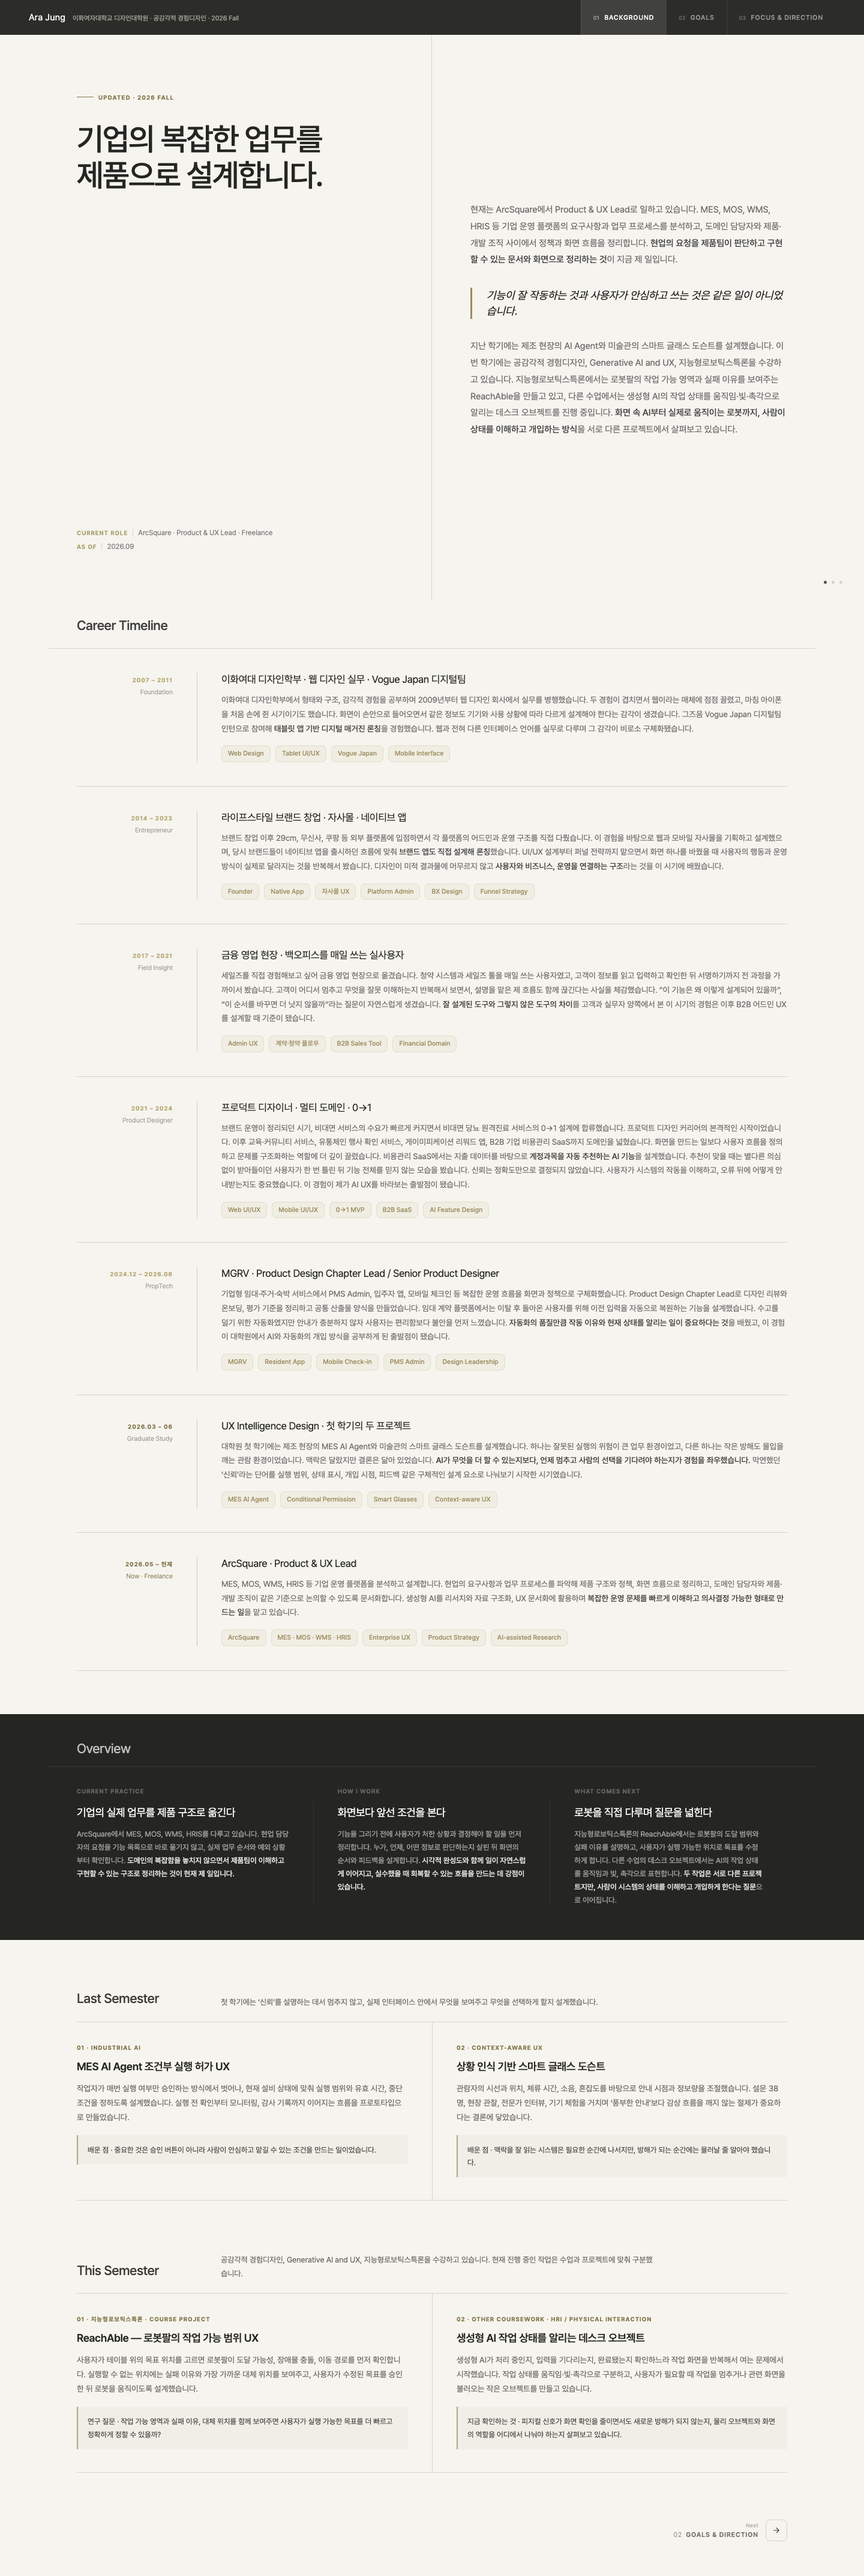
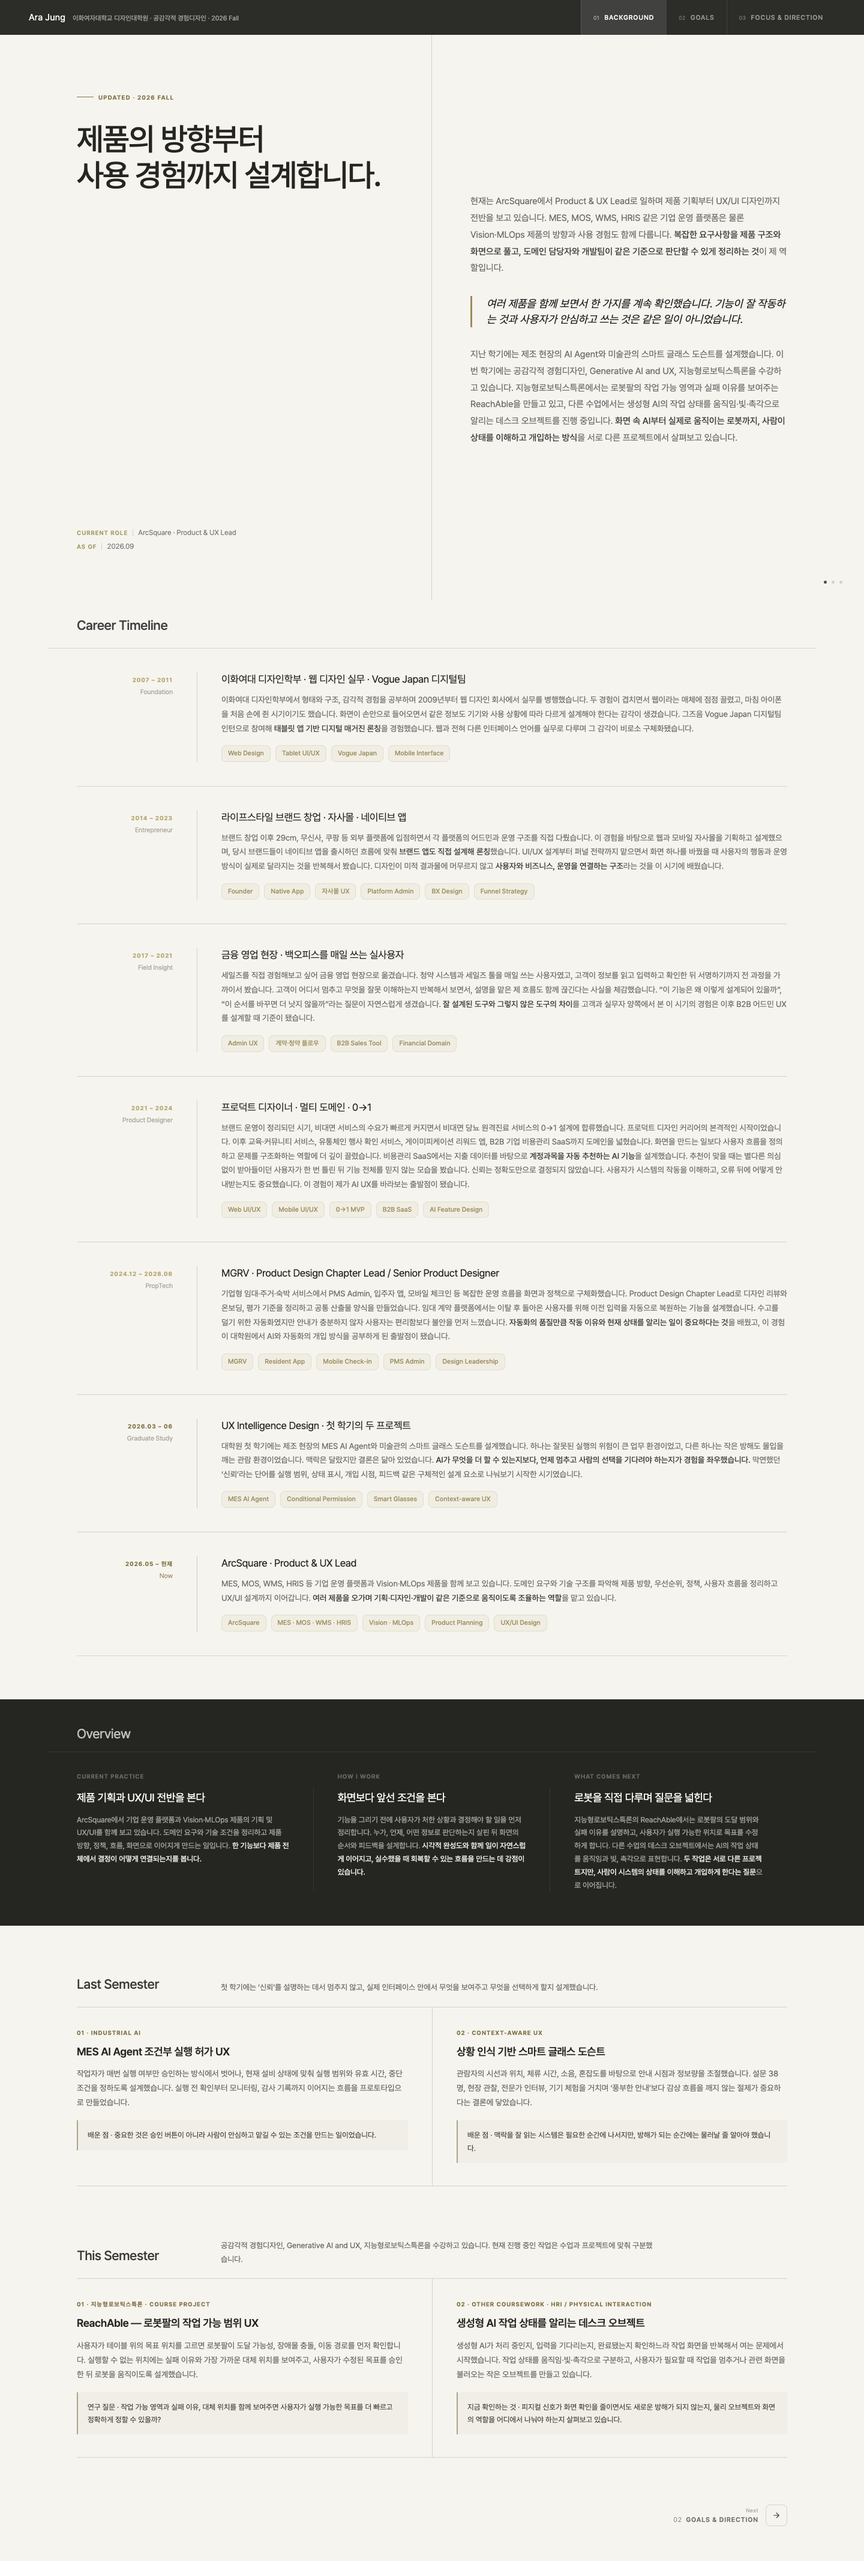
Broaden current product leadership scope

diff --git a/index.html b/index.html
@@ -1366,7 +1366,7 @@
       <div>
         <div class="semester-note">Updated · 2026 Fall</div>
         <h1 class="hero-display">
-          기업의 복잡한 업무를<br />제품으로 설계합니다.
+          제품의 방향부터<br />사용 경험까지 설계합니다.
         </h1>
       </div>
       <div class="hero-meta">
@@ -1384,10 +1384,10 @@
     </div>
     <div class="hero-right">
       <div class="hero-intro">
-        현재는 ArcSquare에서 Product &amp; UX Lead로 일하고 있습니다. MES, MOS, WMS, HRIS 등 기업 운영 플랫폼의 요구사항과 업무 프로세스를 분석하고, 도메인 담당자와 제품·개발 조직 사이에서 정책과 화면 흐름을 정리합니다. <strong style="color:#3d3d3d">현업의 요청을 제품팀이 판단하고 구현할 수 있는 문서와 화면으로 정리하는 것</strong>이 지금 제 일입니다.
+        현재는 ArcSquare에서 Product &amp; UX Lead로 일하며 제품 기획부터 UX/UI 디자인까지 전반을 보고 있습니다. MES, MOS, WMS, HRIS 같은 기업 운영 플랫폼은 물론 Vision·MLOps 제품의 방향과 사용 경험도 함께 다룹니다. <strong style="color:#3d3d3d">복잡한 요구사항을 제품 구조와 화면으로 풀고, 도메인 담당자와 개발팀이 같은 기준으로 판단할 수 있게 정리하는 것</strong>이 제 역할입니다.
       </div>
       <div class="hero-intro-pull">
-        기능이 잘 작동하는 것과 사용자가 안심하고 쓰는 것은 같은 일이 아니었습니다.
+        여러 제품을 함께 보면서 한 가지를 계속 확인했습니다. 기능이 잘 작동하는 것과 사용자가 안심하고 쓰는 것은 같은 일이 아니었습니다.
       </div>
       <div class="hero-intro">
         지난 학기에는 제조 현장의 AI Agent와 미술관의 스마트 글래스 도슨트를 설계했습니다. 이번 학기에는 공감각적 경험디자인, Generative AI and UX, 지능형로보틱스특론을 수강하고 있습니다. 지능형로보틱스특론에서는 로봇팔의 작업 가능 영역과 실패 이유를 보여주는 ReachAble을 만들고 있고, 다른 수업에서는 생성형 AI의 작업 상태를 움직임·빛·촉각으로 알리는 데스크 오브젝트를 진행 중입니다. <strong style="color:#3d3d3d">화면 속 AI부터 실제로 움직이는 로봇까지, 사람이 상태를 이해하고 개입하는 방식</strong>을 서로 다른 프로젝트에서 살펴보고 있습니다.
@@ -1534,14 +1534,14 @@
       <div class="timeline-content">
         <div class="timeline-title">ArcSquare · Product &amp; UX Lead</div>
         <div class="timeline-body">
-          MES, MOS, WMS, HRIS 등 기업 운영 플랫폼을 분석하고 설계합니다. 현업의 요구사항과 업무 프로세스를 파악해 제품 구조와 정책, 화면 흐름으로 정리하고, 도메인 담당자와 제품·개발 조직이 같은 기준으로 논의할 수 있도록 문서화합니다. 생성형 AI를 리서치와 자료 구조화, UX 문서화에 활용하며 <strong>복잡한 운영 문제를 빠르게 이해하고 의사결정 가능한 형태로 만드는 일</strong>을 맡고 있습니다.
+          MES, MOS, WMS, HRIS 등 기업 운영 플랫폼과 Vision·MLOps 제품을 함께 보고 있습니다. 도메인 요구와 기술 구조를 파악해 제품 방향, 우선순위, 정책, 사용자 흐름을 정리하고 UX/UI 설계까지 이어갑니다. <strong>여러 제품을 오가며 기획·디자인·개발이 같은 기준으로 움직이도록 조율하는 역할</strong>을 맡고 있습니다.
         </div>
         <div class="timeline-tags">
           <span class="ttag">ArcSquare</span>
           <span class="ttag">MES · MOS · WMS · HRIS</span>
-          <span class="ttag">Enterprise UX</span>
-          <span class="ttag">Product Strategy</span>
-          <span class="ttag">AI-assisted Research</span>
+          <span class="ttag">Vision · MLOps</span>
+          <span class="ttag">Product Planning</span>
+          <span class="ttag">UX/UI Design</span>
         </div>
       </div>
     </div>
@@ -1556,8 +1556,8 @@
       <div class="who-grid">
         <div class="who-card">
           <div class="who-card-num">Current Practice</div>
-          <div class="who-card-title">기업의 실제 업무를 제품 구조로 옮긴다</div>
-          <div class="who-card-body">ArcSquare에서 MES, MOS, WMS, HRIS를 다루고 있습니다. 현업 담당자의 요청을 기능 목록으로 바로 옮기지 않고, 실제 업무 순서와 예외 상황부터 확인합니다. <strong style="color:rgba(255,255,255,0.85)">도메인의 복잡함을 놓치지 않으면서 제품팀이 이해하고 구현할 수 있는 구조로 정리하는 것이 현재 제 일입니다.</strong></div>
+          <div class="who-card-title">제품 기획과 UX/UI 전반을 본다</div>
+          <div class="who-card-body">ArcSquare에서 기업 운영 플랫폼과 Vision·MLOps 제품의 기획 및 UX/UI를 함께 보고 있습니다. 도메인 요구와 기술 조건을 정리하고 제품 방향, 정책, 흐름, 화면으로 이어지게 만드는 일입니다. <strong style="color:rgba(255,255,255,0.85)">한 기능보다 제품 전체에서 결정이 어떻게 연결되는지를 봅니다.</strong></div>
         </div>
         <div class="who-card">
           <div class="who-card-num">How I work</div>
